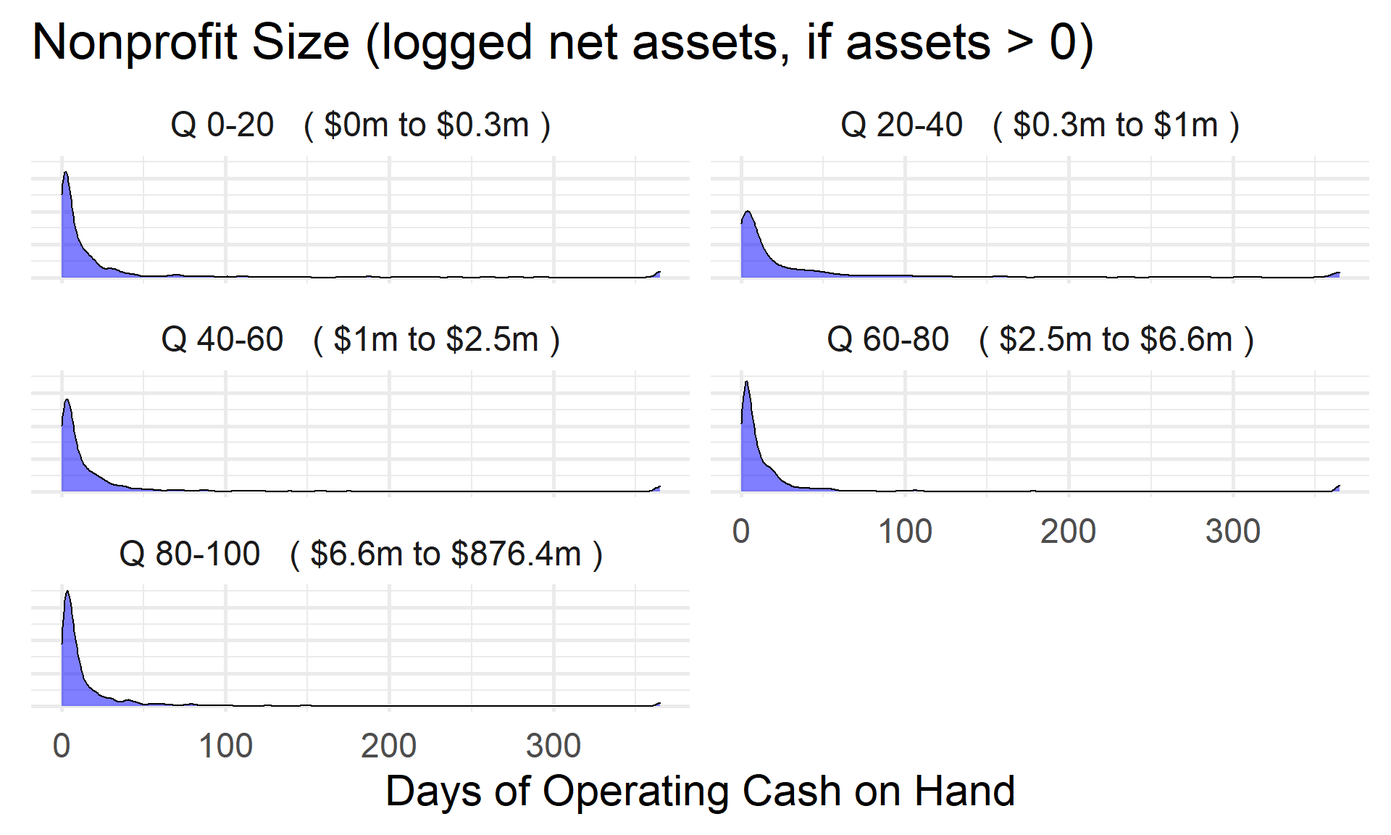
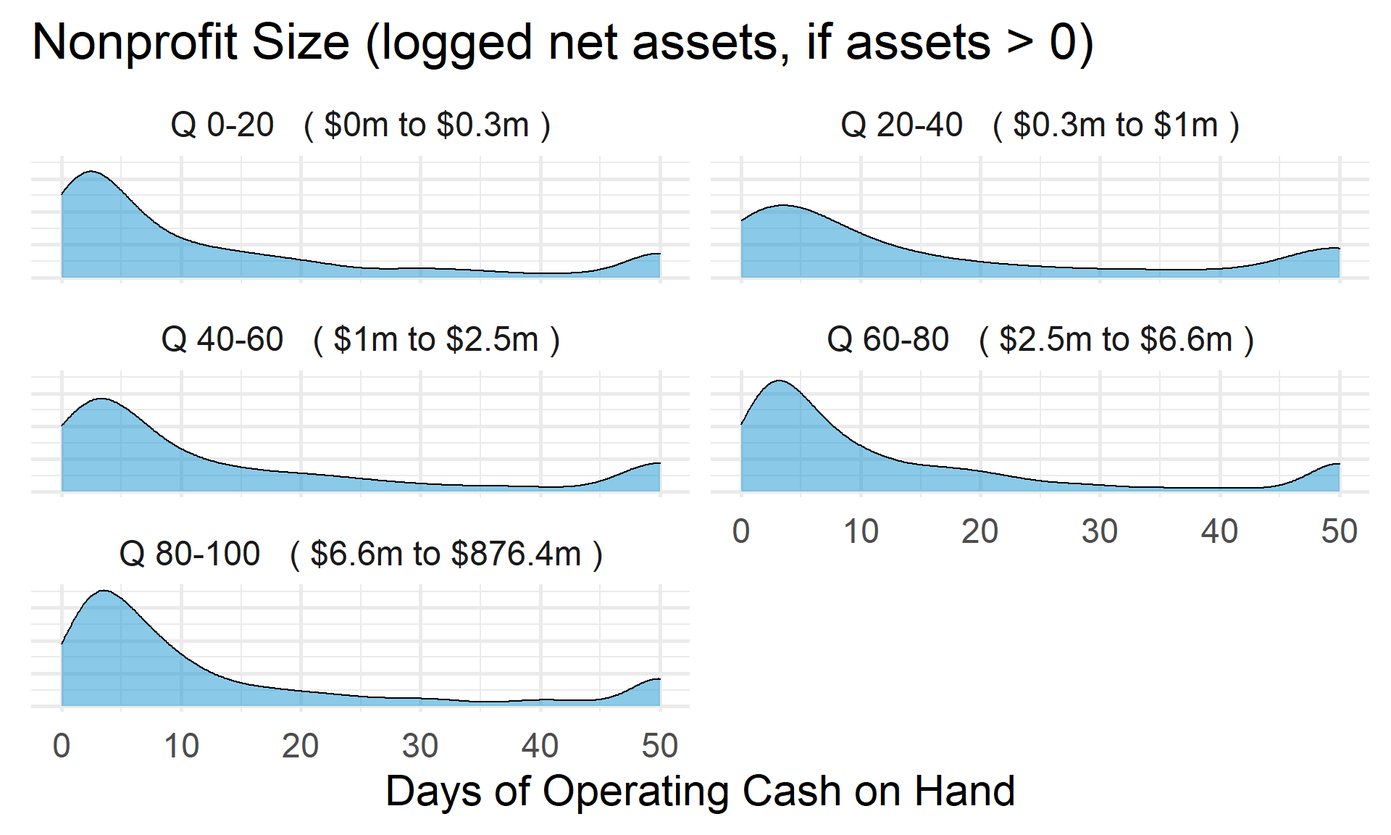
Changed colors of density plots

diff --git a/metric-03-days-operating-COH.html b/metric-03-days-operating-COH.html
@@ -518,7 +518,7 @@ div.tocify {
 <a class="sourceLine" id="cb2-2" title="2">x<span class="fl">.95</span> &lt;-<span class="st"> </span><span class="kw">quantile</span>( core<span class="op">$</span>daysoperating_coh, <span class="fl">0.95</span>, <span class="dt">na.rm=</span>T )</a>
 <a class="sourceLine" id="cb2-3" title="3"></a>
 <a class="sourceLine" id="cb2-4" title="4"><span class="kw">ggplot</span>( core, <span class="kw">aes</span>(<span class="dt">x =</span> daysoperating_coh ) ) <span class="op">+</span><span class="st">  </span></a>
-<a class="sourceLine" id="cb2-5" title="5"><span class="st">  </span><span class="kw">geom_density</span>( <span class="dt">alpha =</span> <span class="fl">0.5</span>, <span class="dt">fill=</span><span class="st">&quot;blue&quot;</span> ) <span class="op">+</span><span class="st"> </span></a>
+<a class="sourceLine" id="cb2-5" title="5"><span class="st">  </span><span class="kw">geom_density</span>( <span class="dt">alpha =</span> <span class="fl">0.5</span>) <span class="op">+</span><span class="st"> </span></a>
 <a class="sourceLine" id="cb2-6" title="6"><span class="st">  </span><span class="kw">xlim</span>( x<span class="fl">.05</span>, x<span class="fl">.95</span> ) </a></code></pre></div>
 <p><img src="metric-03-days-operating-COH_files/figure-html/unnamed-chunk-3-1.png" width="960" /></p>
 <div class="sourceCode" id="cb3"><pre class="sourceCode r"><code class="sourceCode r"><a class="sourceLine" id="cb3-1" title="1">core2 &lt;-<span class="st"> </span>core</a>
@@ -529,9 +529,9 @@ div.tocify {
 <a class="sourceLine" id="cb3-6" title="6">core2<span class="op">$</span>daysoperating_coh[ core2<span class="op">$</span>daysoperating_coh <span class="op">&lt;</span><span class="st"> </span><span class="dv">0</span> ] &lt;-<span class="st"> </span><span class="dv">0</span></a>
 <a class="sourceLine" id="cb3-7" title="7"></a>
 <a class="sourceLine" id="cb3-8" title="8"><span class="co"># proption of values above 200% </span></a>
-<a class="sourceLine" id="cb3-9" title="9"><span class="kw">mean</span>( core2<span class="op">$</span>daysoperating_coh <span class="op">&gt;</span><span class="st"> </span><span class="dv">365</span>, <span class="dt">na.rm=</span>T ) </a>
-<a class="sourceLine" id="cb3-10" title="10"><span class="co">## [1] 0.02299069</span></a>
-<a class="sourceLine" id="cb3-11" title="11">core2<span class="op">$</span>daysoperating_coh[ core2<span class="op">$</span>daysoperating_coh <span class="op">&gt;</span><span class="st"> </span><span class="dv">365</span> ] &lt;-<span class="st"> </span><span class="dv">365</span></a></code></pre></div>
+<a class="sourceLine" id="cb3-9" title="9"><span class="kw">mean</span>( core2<span class="op">$</span>daysoperating_coh <span class="op">&gt;</span><span class="st"> </span><span class="dv">50</span>, <span class="dt">na.rm=</span>T ) </a>
+<a class="sourceLine" id="cb3-10" title="10"><span class="co">## [1] 0.1113433</span></a>
+<a class="sourceLine" id="cb3-11" title="11">core2<span class="op">$</span>daysoperating_coh[ core2<span class="op">$</span>daysoperating_coh <span class="op">&gt;</span><span class="st"> </span><span class="dv">50</span> ] &lt;-<span class="st"> </span><span class="dv">50</span></a></code></pre></div>
 </div>
 <div id="metric-scope" class="section level2">
 <h2>Metric Scope</h2>
@@ -618,16 +618,16 @@ Days of Operating COH
 6
 </td>
 <td>
-27
+14
 </td>
 <td>
 18
 </td>
 <td>
-365
+50
 </td>
 <td>
-66
+16
 </td>
 </tr>
 <tr>
@@ -835,7 +835,7 @@ Liabiliies (1k)
 <a class="sourceLine" id="cb7-2" title="2">max.x &lt;-<span class="st"> </span><span class="kw">max</span>( core2<span class="op">$</span>daysoperating_coh, <span class="dt">na.rm=</span>T )</a>
 <a class="sourceLine" id="cb7-3" title="3"></a>
 <a class="sourceLine" id="cb7-4" title="4"><span class="kw">ggplot</span>( core2, <span class="kw">aes</span>(<span class="dt">x =</span> daysoperating_coh )) <span class="op">+</span><span class="st">  </span></a>
-<a class="sourceLine" id="cb7-5" title="5"><span class="st">  </span><span class="kw">geom_density</span>( <span class="dt">alpha =</span> <span class="fl">0.5</span>, <span class="dt">fill=</span><span class="st">&quot;blue&quot;</span> ) <span class="op">+</span><span class="st"> </span></a>
+<a class="sourceLine" id="cb7-5" title="5"><span class="st">  </span><span class="kw">geom_density</span>( <span class="dt">alpha =</span> <span class="fl">0.5</span> ) <span class="op">+</span><span class="st"> </span></a>
 <a class="sourceLine" id="cb7-6" title="6"><span class="st">  </span><span class="kw">xlim</span>( min.x, max.x  ) <span class="op">+</span></a>
 <a class="sourceLine" id="cb7-7" title="7"><span class="st">  </span><span class="kw">xlab</span>( variable.label ) <span class="op">+</span></a>
 <a class="sourceLine" id="cb7-8" title="8"><span class="st">  </span><span class="kw">theme</span>( <span class="dt">axis.title.y=</span><span class="kw">element_blank</span>(),</a>
@@ -912,7 +912,7 @@ Liabiliies (1k)
 <a class="sourceLine" id="cb9-5" title="5">                  <span class="dt">NTMAJ12=</span><span class="kw">names</span>(t) )</a>
 <a class="sourceLine" id="cb9-6" title="6"></a>
 <a class="sourceLine" id="cb9-7" title="7"><span class="kw">ggplot</span>( core3, <span class="kw">aes</span>( <span class="dt">x=</span>daysoperating_coh ) ) <span class="op">+</span><span class="st"> </span></a>
-<a class="sourceLine" id="cb9-8" title="8"><span class="st">  </span><span class="kw">geom_density</span>( <span class="dt">alpha =</span> <span class="fl">0.5</span>, <span class="dt">fill=</span><span class="st">&quot;blue&quot;</span> ) <span class="op">+</span><span class="st"> </span></a>
+<a class="sourceLine" id="cb9-8" title="8"><span class="st">  </span><span class="kw">geom_density</span>( <span class="dt">alpha =</span> <span class="fl">0.5</span>) <span class="op">+</span><span class="st"> </span></a>
 <a class="sourceLine" id="cb9-9" title="9"><span class="st">  </span><span class="co"># xlim( -0.1, 1 ) +</span></a>
 <a class="sourceLine" id="cb9-10" title="10"><span class="st">  </span><span class="kw">labs</span>( <span class="dt">title=</span><span class="st">&quot;Nonprofit Subsectors&quot;</span> ) <span class="op">+</span><span class="st"> </span></a>
 <a class="sourceLine" id="cb9-11" title="11"><span class="st">  </span><span class="kw">xlab</span>( variable.label ) <span class="op">+</span><span class="st"> </span></a>
@@ -965,7 +965,7 @@ Liabiliies (1k)
 <a class="sourceLine" id="cb11-6" title="6">core2 <span class="op">%&gt;%</span><span class="st"> </span></a>
 <a class="sourceLine" id="cb11-7" title="7"><span class="st">  </span><span class="kw">filter</span>( <span class="op">!</span><span class="st"> </span><span class="kw">is.na</span>(Region) ) <span class="op">%&gt;%</span><span class="st"> </span></a>
 <a class="sourceLine" id="cb11-8" title="8"><span class="st">  </span><span class="kw">ggplot</span>( <span class="kw">aes</span>(daysoperating_coh) )  <span class="op">+</span><span class="st"> </span></a>
-<a class="sourceLine" id="cb11-9" title="9"><span class="st">    </span><span class="kw">geom_density</span>( <span class="dt">alpha =</span> <span class="fl">0.5</span>, <span class="dt">fill=</span><span class="st">&quot;blue&quot;</span> ) <span class="op">+</span><span class="st"> </span></a>
+<a class="sourceLine" id="cb11-9" title="9"><span class="st">    </span><span class="kw">geom_density</span>( <span class="dt">alpha =</span> <span class="fl">0.5</span> ) <span class="op">+</span><span class="st"> </span></a>
 <a class="sourceLine" id="cb11-10" title="10"><span class="st">    </span><span class="kw">xlab</span>( <span class="st">&quot;Census Regions&quot;</span> ) <span class="op">+</span><span class="st"> </span></a>
 <a class="sourceLine" id="cb11-11" title="11"><span class="st">    </span><span class="kw">ylab</span>( variable.label ) <span class="op">+</span></a>
 <a class="sourceLine" id="cb11-12" title="12"><span class="st">    </span><span class="kw">facet_wrap</span>( <span class="op">~</span><span class="st"> </span>Region, <span class="dt">nrow=</span><span class="dv">3</span> ) <span class="op">+</span><span class="st"> </span></a>
@@ -1033,7 +1033,7 @@ Liabiliies (1k)
 <a class="sourceLine" id="cb13-6" title="6">core2 <span class="op">%&gt;%</span><span class="st"> </span></a>
 <a class="sourceLine" id="cb13-7" title="7"><span class="st">  </span><span class="kw">filter</span>( <span class="op">!</span><span class="st"> </span><span class="kw">is.na</span>(Division) ) <span class="op">%&gt;%</span><span class="st"> </span></a>
 <a class="sourceLine" id="cb13-8" title="8"><span class="st">  </span><span class="kw">ggplot</span>( <span class="kw">aes</span>(daysoperating_coh) )  <span class="op">+</span><span class="st"> </span></a>
-<a class="sourceLine" id="cb13-9" title="9"><span class="st">    </span><span class="kw">geom_density</span>( <span class="dt">alpha =</span> <span class="fl">0.5</span>, <span class="dt">fill=</span><span class="st">&quot;blue&quot;</span> ) <span class="op">+</span><span class="st"> </span></a>
+<a class="sourceLine" id="cb13-9" title="9"><span class="st">    </span><span class="kw">geom_density</span>( <span class="dt">alpha =</span> <span class="fl">0.5</span> ) <span class="op">+</span><span class="st"> </span></a>
 <a class="sourceLine" id="cb13-10" title="10"><span class="st">    </span><span class="kw">xlab</span>( <span class="st">&quot;Census Sub-Regions (10)&quot;</span> ) <span class="op">+</span><span class="st"> </span></a>
 <a class="sourceLine" id="cb13-11" title="11"><span class="st">    </span><span class="kw">ylab</span>( variable.label ) <span class="op">+</span></a>
 <a class="sourceLine" id="cb13-12" title="12"><span class="st">    </span><span class="kw">facet_wrap</span>( <span class="op">~</span><span class="st"> </span>Division, <span class="dt">nrow=</span><span class="dv">3</span> ) <span class="op">+</span><span class="st"> </span></a>
@@ -1050,7 +1050,7 @@ Liabiliies (1k)
 <div id="days-of-operating-cash-on-hand-by-nonprofit-size-expenses" class="section level2">
 <h2>Days of Operating Cash on Hand by Nonprofit Size (Expenses)</h2>
 <div class="sourceCode" id="cb14"><pre class="sourceCode r"><code class="sourceCode r"><a class="sourceLine" id="cb14-1" title="1"><span class="kw">ggplot</span>( core2, <span class="kw">aes</span>(<span class="dt">x =</span> totfuncexpns )) <span class="op">+</span><span class="st">  </span></a>
-<a class="sourceLine" id="cb14-2" title="2"><span class="st">  </span><span class="kw">geom_density</span>( <span class="dt">alpha =</span> <span class="fl">0.5</span>, <span class="dt">fill=</span><span class="st">&quot;darkorange&quot;</span> ) <span class="op">+</span><span class="st"> </span></a>
+<a class="sourceLine" id="cb14-2" title="2"><span class="st">  </span><span class="kw">geom_density</span>( <span class="dt">alpha =</span> <span class="fl">0.5</span> ) <span class="op">+</span><span class="st"> </span></a>
 <a class="sourceLine" id="cb14-3" title="3"><span class="st">  </span><span class="kw">xlim</span>( <span class="kw">quantile</span>(core2<span class="op">$</span>totfuncexpns, <span class="kw">c</span>(<span class="fl">0.02</span>,<span class="fl">0.98</span>), <span class="dt">na.rm=</span>T ) )</a></code></pre></div>
 <p><img src="metric-03-days-operating-COH_files/figure-html/unnamed-chunk-15-1.png" width="960" /></p>
 <div class="sourceCode" id="cb15"><pre class="sourceCode r"><code class="sourceCode r"><a class="sourceLine" id="cb15-1" title="1">core2<span class="op">$</span>totfuncexpns[ core2<span class="op">$</span>totfuncexpns <span class="op">&lt;</span><span class="st"> </span><span class="dv">1</span> ] &lt;-<span class="st"> </span><span class="dv">1</span></a>
@@ -1075,7 +1075,7 @@ Liabiliies (1k)
 <div class="sourceCode" id="cb16"><pre class="sourceCode r"><code class="sourceCode r"><a class="sourceLine" id="cb16-1" title="1">core2 <span class="op">%&gt;%</span><span class="st"> </span></a>
 <a class="sourceLine" id="cb16-2" title="2"><span class="st">  </span><span class="kw">filter</span>( <span class="op">!</span><span class="st"> </span><span class="kw">is.na</span>(exp.q) ) <span class="op">%&gt;%</span><span class="st"> </span></a>
 <a class="sourceLine" id="cb16-3" title="3"><span class="st">  </span><span class="kw">ggplot</span>( <span class="kw">aes</span>(daysoperating_coh) )  <span class="op">+</span><span class="st"> </span></a>
-<a class="sourceLine" id="cb16-4" title="4"><span class="st">    </span><span class="kw">geom_density</span>( <span class="dt">alpha =</span> <span class="fl">0.5</span>, <span class="dt">fill=</span><span class="st">&quot;blue&quot;</span> ) <span class="op">+</span><span class="st"> </span></a>
+<a class="sourceLine" id="cb16-4" title="4"><span class="st">    </span><span class="kw">geom_density</span>( <span class="dt">alpha =</span> <span class="fl">0.5</span>) <span class="op">+</span><span class="st"> </span></a>
 <a class="sourceLine" id="cb16-5" title="5"><span class="st">    </span><span class="kw">labs</span>( <span class="dt">title=</span><span class="st">&quot;Nonprofit Size (logged expenses)&quot;</span> ) <span class="op">+</span><span class="st"> </span></a>
 <a class="sourceLine" id="cb16-6" title="6"><span class="st">    </span><span class="kw">xlab</span>( variable.label ) <span class="op">+</span></a>
 <a class="sourceLine" id="cb16-7" title="7"><span class="st">    </span><span class="kw">facet_wrap</span>( <span class="op">~</span><span class="st"> </span>exp.q, <span class="dt">nrow=</span><span class="dv">3</span> ) <span class="op">+</span><span class="st"> </span></a>
@@ -1088,7 +1088,7 @@ Liabiliies (1k)
 <div id="days-of-operating-cash-on-hand-by-nonprofit-size-revenue" class="section level2">
 <h2>Days of Operating Cash on Hand by Nonprofit Size (Revenue)</h2>
 <div class="sourceCode" id="cb17"><pre class="sourceCode r"><code class="sourceCode r"><a class="sourceLine" id="cb17-1" title="1"><span class="kw">ggplot</span>( core2, <span class="kw">aes</span>(<span class="dt">x =</span> totrevenue )) <span class="op">+</span><span class="st">  </span></a>
-<a class="sourceLine" id="cb17-2" title="2"><span class="st">  </span><span class="kw">geom_density</span>( <span class="dt">alpha =</span> <span class="fl">0.5</span>, <span class="dt">fill=</span><span class="st">&quot;darkorange&quot;</span> ) <span class="op">+</span><span class="st"> </span></a>
+<a class="sourceLine" id="cb17-2" title="2"><span class="st">  </span><span class="kw">geom_density</span>( <span class="dt">alpha =</span> <span class="fl">0.5</span> ) <span class="op">+</span><span class="st"> </span></a>
 <a class="sourceLine" id="cb17-3" title="3"><span class="st">  </span><span class="kw">xlim</span>( <span class="kw">quantile</span>(core2<span class="op">$</span>totrevenue, <span class="kw">c</span>(<span class="fl">0.02</span>,<span class="fl">0.98</span>), <span class="dt">na.rm=</span>T ) ) <span class="op">+</span><span class="st"> </span></a>
 <a class="sourceLine" id="cb17-4" title="4"><span class="st">  </span><span class="kw">theme</span>( <span class="dt">axis.title.y=</span><span class="kw">element_blank</span>(),</a>
 <a class="sourceLine" id="cb17-5" title="5">           <span class="dt">axis.text.y=</span><span class="kw">element_blank</span>(), </a>
@@ -1115,7 +1115,7 @@ Liabiliies (1k)
 <div class="sourceCode" id="cb19"><pre class="sourceCode r"><code class="sourceCode r"><a class="sourceLine" id="cb19-1" title="1">core2 <span class="op">%&gt;%</span><span class="st"> </span></a>
 <a class="sourceLine" id="cb19-2" title="2"><span class="st">  </span><span class="kw">filter</span>( <span class="op">!</span><span class="st"> </span><span class="kw">is.na</span>(rev.q) ) <span class="op">%&gt;%</span><span class="st"> </span></a>
 <a class="sourceLine" id="cb19-3" title="3"><span class="st">  </span><span class="kw">ggplot</span>( <span class="kw">aes</span>(daysoperating_coh) )  <span class="op">+</span><span class="st"> </span></a>
-<a class="sourceLine" id="cb19-4" title="4"><span class="st">    </span><span class="kw">geom_density</span>( <span class="dt">alpha =</span> <span class="fl">0.5</span>, <span class="dt">fill=</span><span class="st">&quot;blue&quot;</span> ) <span class="op">+</span><span class="st"> </span></a>
+<a class="sourceLine" id="cb19-4" title="4"><span class="st">    </span><span class="kw">geom_density</span>( <span class="dt">alpha =</span> <span class="fl">0.5</span> ) <span class="op">+</span><span class="st"> </span></a>
 <a class="sourceLine" id="cb19-5" title="5"><span class="st">    </span><span class="kw">labs</span>( <span class="dt">title=</span><span class="st">&quot;Nonprofit Size (logged revenues)&quot;</span> ) <span class="op">+</span><span class="st"> </span></a>
 <a class="sourceLine" id="cb19-6" title="6"><span class="st">    </span><span class="kw">xlab</span>( variable.label ) <span class="op">+</span></a>
 <a class="sourceLine" id="cb19-7" title="7"><span class="st">    </span><span class="kw">facet_wrap</span>( <span class="op">~</span><span class="st"> </span>rev.q, <span class="dt">nrow=</span><span class="dv">3</span> ) <span class="op">+</span><span class="st"> </span></a>
@@ -1128,7 +1128,7 @@ Liabiliies (1k)
 <div id="days-of-operating-cash-on-hand-by-nonprofit-size-net-assets" class="section level2">
 <h2>Days of Operating Cash on Hand by Nonprofit Size (Net Assets)</h2>
 <div class="sourceCode" id="cb20"><pre class="sourceCode r"><code class="sourceCode r"><a class="sourceLine" id="cb20-1" title="1"><span class="kw">ggplot</span>( core2, <span class="kw">aes</span>(<span class="dt">x =</span> totnetassetend )) <span class="op">+</span><span class="st">  </span></a>
-<a class="sourceLine" id="cb20-2" title="2"><span class="st">  </span><span class="kw">geom_density</span>( <span class="dt">alpha =</span> <span class="fl">0.5</span>, <span class="dt">fill=</span><span class="st">&quot;darkorange&quot;</span> ) <span class="op">+</span><span class="st"> </span></a>
+<a class="sourceLine" id="cb20-2" title="2"><span class="st">  </span><span class="kw">geom_density</span>( <span class="dt">alpha =</span> <span class="fl">0.5</span>) <span class="op">+</span><span class="st"> </span></a>
 <a class="sourceLine" id="cb20-3" title="3"><span class="st">  </span><span class="kw">xlim</span>( <span class="kw">quantile</span>(core2<span class="op">$</span>totnetassetend, <span class="kw">c</span>(<span class="fl">0.02</span>,<span class="fl">0.98</span>), <span class="dt">na.rm=</span>T ) ) <span class="op">+</span><span class="st"> </span></a>
 <a class="sourceLine" id="cb20-4" title="4"><span class="st">  </span><span class="kw">xlab</span>( <span class="st">&quot;Net Assets&quot;</span> ) <span class="op">+</span></a>
 <a class="sourceLine" id="cb20-5" title="5"><span class="st">    </span><span class="kw">theme</span>( <span class="dt">axis.title.y=</span><span class="kw">element_blank</span>(),</a>
@@ -1159,7 +1159,7 @@ Liabiliies (1k)
 <a class="sourceLine" id="cb22-4" title="4">core2 <span class="op">%&gt;%</span><span class="st"> </span></a>
 <a class="sourceLine" id="cb22-5" title="5"><span class="st">  </span><span class="kw">filter</span>( <span class="op">!</span><span class="st"> </span><span class="kw">is.na</span>(asset.q) ) <span class="op">%&gt;%</span><span class="st"> </span></a>
 <a class="sourceLine" id="cb22-6" title="6"><span class="st">  </span><span class="kw">ggplot</span>( <span class="kw">aes</span>(daysoperating_coh) )  <span class="op">+</span><span class="st"> </span></a>
-<a class="sourceLine" id="cb22-7" title="7"><span class="st">    </span><span class="kw">geom_density</span>( <span class="dt">alpha =</span> <span class="fl">0.5</span>, <span class="dt">fill=</span><span class="st">&quot;blue&quot;</span> ) <span class="op">+</span><span class="st"> </span></a>
+<a class="sourceLine" id="cb22-7" title="7"><span class="st">    </span><span class="kw">geom_density</span>( <span class="dt">alpha =</span> <span class="fl">0.5</span> ) <span class="op">+</span><span class="st"> </span></a>
 <a class="sourceLine" id="cb22-8" title="8"><span class="st">    </span><span class="kw">labs</span>( <span class="dt">title=</span><span class="st">&quot;Nonprofit Size (logged net assets, if assets &gt; 0)&quot;</span> ) <span class="op">+</span><span class="st"> </span></a>
 <a class="sourceLine" id="cb22-9" title="9"><span class="st">    </span><span class="kw">xlab</span>( variable.label ) <span class="op">+</span><span class="st"> </span></a>
 <a class="sourceLine" id="cb22-10" title="10"><span class="st">    </span><span class="kw">ylab</span>( <span class="st">&quot;&quot;</span> ) <span class="op">+</span><span class="st"> </span></a>
@@ -1190,7 +1190,7 @@ Liabiliies (1k)
 <a class="sourceLine" id="cb23-18" title="18">      <span class="dt">labels=</span><span class="kw">c</span>(<span class="st">&quot;1k&quot;</span>,<span class="st">&quot;10k&quot;</span>,<span class="st">&quot;100k&quot;</span>,<span class="st">&quot;1m&quot;</span>,<span class="st">&quot;10m&quot;</span>,<span class="st">&quot;100m&quot;</span>,<span class="st">&quot;1b&quot;</span>,<span class="st">&quot;10b&quot;</span>) )</a></code></pre></div>
 <p><img src="metric-03-days-operating-COH_files/figure-html/unnamed-chunk-24-1.png" width="960" /></p>
 <div class="sourceCode" id="cb24"><pre class="sourceCode r"><code class="sourceCode r"><a class="sourceLine" id="cb24-1" title="1"><span class="kw">ggplot</span>( core2, <span class="kw">aes</span>(<span class="dt">x =</span> totassetsend )) <span class="op">+</span><span class="st">  </span></a>
-<a class="sourceLine" id="cb24-2" title="2"><span class="st">  </span><span class="kw">geom_density</span>( <span class="dt">alpha =</span> <span class="fl">0.5</span>, <span class="dt">fill=</span><span class="st">&quot;darkorange&quot;</span> ) <span class="op">+</span><span class="st"> </span></a>
+<a class="sourceLine" id="cb24-2" title="2"><span class="st">  </span><span class="kw">geom_density</span>( <span class="dt">alpha =</span> <span class="fl">0.5</span>) <span class="op">+</span><span class="st"> </span></a>
 <a class="sourceLine" id="cb24-3" title="3"><span class="st">  </span><span class="kw">xlim</span>( <span class="kw">quantile</span>(core2<span class="op">$</span>totassetsend, <span class="kw">c</span>(<span class="fl">0.02</span>,<span class="fl">0.98</span>), <span class="dt">na.rm=</span>T ) ) <span class="op">+</span><span class="st"> </span></a>
 <a class="sourceLine" id="cb24-4" title="4"><span class="st">  </span><span class="kw">xlab</span>( <span class="st">&quot;Net Assets&quot;</span> ) <span class="op">+</span></a>
 <a class="sourceLine" id="cb24-5" title="5"><span class="st">    </span><span class="kw">theme</span>( <span class="dt">axis.title.y=</span><span class="kw">element_blank</span>(),</a>
@@ -1200,7 +1200,7 @@ Liabiliies (1k)
 <div class="sourceCode" id="cb25"><pre class="sourceCode r"><code class="sourceCode r"><a class="sourceLine" id="cb25-1" title="1">core2 <span class="op">%&gt;%</span><span class="st"> </span></a>
 <a class="sourceLine" id="cb25-2" title="2"><span class="st">  </span><span class="kw">filter</span>( <span class="op">!</span><span class="st"> </span><span class="kw">is.na</span>(tot.asset.q) ) <span class="op">%&gt;%</span><span class="st"> </span></a>
 <a class="sourceLine" id="cb25-3" title="3"><span class="st">  </span><span class="kw">ggplot</span>( <span class="kw">aes</span>(daysoperating_coh) )  <span class="op">+</span><span class="st"> </span></a>
-<a class="sourceLine" id="cb25-4" title="4"><span class="st">    </span><span class="kw">geom_density</span>( <span class="dt">alpha =</span> <span class="fl">0.5</span>, <span class="dt">fill=</span><span class="st">&quot;blue&quot;</span> ) <span class="op">+</span><span class="st"> </span></a>
+<a class="sourceLine" id="cb25-4" title="4"><span class="st">    </span><span class="kw">geom_density</span>( <span class="dt">alpha =</span> <span class="fl">0.5</span> ) <span class="op">+</span><span class="st"> </span></a>
 <a class="sourceLine" id="cb25-5" title="5"><span class="st">    </span><span class="kw">xlab</span>( <span class="st">&quot;Nonprofit Size (logged total assets, if assets &gt; 0)&quot;</span> ) <span class="op">+</span><span class="st"> </span></a>
 <a class="sourceLine" id="cb25-6" title="6"><span class="st">    </span><span class="kw">ylab</span>( variable.label ) <span class="op">+</span></a>
 <a class="sourceLine" id="cb25-7" title="7"><span class="st">    </span><span class="kw">facet_wrap</span>( <span class="op">~</span><span class="st"> </span>tot.asset.q, <span class="dt">nrow=</span><span class="dv">3</span> ) <span class="op">+</span><span class="st"> </span></a>
@@ -1213,7 +1213,7 @@ Liabiliies (1k)
 <div id="days-of-operating-cash-on-hand-by-nonprofit-age" class="section level2">
 <h2>Days of Operating Cash on Hand by Nonprofit Age</h2>
 <div class="sourceCode" id="cb26"><pre class="sourceCode r"><code class="sourceCode r"><a class="sourceLine" id="cb26-1" title="1"><span class="kw">ggplot</span>( core2, <span class="kw">aes</span>(<span class="dt">x =</span> AGE )) <span class="op">+</span><span class="st">  </span></a>
-<a class="sourceLine" id="cb26-2" title="2"><span class="st">  </span><span class="kw">geom_density</span>( <span class="dt">alpha =</span> <span class="fl">0.5</span>, <span class="dt">fill=</span><span class="st">&quot;darkorange&quot;</span> )  </a></code></pre></div>
+<a class="sourceLine" id="cb26-2" title="2"><span class="st">  </span><span class="kw">geom_density</span>( <span class="dt">alpha =</span> <span class="fl">0.5</span> )  </a></code></pre></div>
 <p><img src="metric-03-days-operating-COH_files/figure-html/unnamed-chunk-27-1.png" width="960" /></p>
 <div class="sourceCode" id="cb27"><pre class="sourceCode r"><code class="sourceCode r"><a class="sourceLine" id="cb27-1" title="1">core2<span class="op">$</span>AGE[ core2<span class="op">$</span>AGE <span class="op">&lt;</span><span class="st"> </span><span class="dv">1</span> ] &lt;-<span class="st"> </span><span class="ot">NA</span></a>
 <a class="sourceLine" id="cb27-2" title="2"></a>
@@ -1232,7 +1232,7 @@ Liabiliies (1k)
 <div class="sourceCode" id="cb28"><pre class="sourceCode r"><code class="sourceCode r"><a class="sourceLine" id="cb28-1" title="1">core2 <span class="op">%&gt;%</span><span class="st"> </span></a>
 <a class="sourceLine" id="cb28-2" title="2"><span class="st">  </span><span class="kw">filter</span>( <span class="op">!</span><span class="st"> </span><span class="kw">is.na</span>(age.q) ) <span class="op">%&gt;%</span><span class="st"> </span></a>
 <a class="sourceLine" id="cb28-3" title="3"><span class="st">  </span><span class="kw">ggplot</span>( <span class="kw">aes</span>(daysoperating_coh) )  <span class="op">+</span><span class="st"> </span></a>
-<a class="sourceLine" id="cb28-4" title="4"><span class="st">    </span><span class="kw">geom_density</span>( <span class="dt">alpha =</span> <span class="fl">0.5</span>, <span class="dt">fill=</span><span class="st">&quot;blue&quot;</span> ) <span class="op">+</span><span class="st"> </span></a>
+<a class="sourceLine" id="cb28-4" title="4"><span class="st">    </span><span class="kw">geom_density</span>( <span class="dt">alpha =</span> <span class="fl">0.5</span> ) <span class="op">+</span><span class="st"> </span></a>
 <a class="sourceLine" id="cb28-5" title="5"><span class="st">    </span><span class="kw">labs</span>( <span class="dt">title=</span><span class="st">&quot;Nonprofit Age&quot;</span> ) <span class="op">+</span><span class="st"> </span></a>
 <a class="sourceLine" id="cb28-6" title="6"><span class="st">    </span><span class="kw">xlab</span>( variable.label ) <span class="op">+</span></a>
 <a class="sourceLine" id="cb28-7" title="7"><span class="st">    </span><span class="kw">ylab</span>( <span class="st">&quot;&quot;</span> ) <span class="op">+</span></a>
